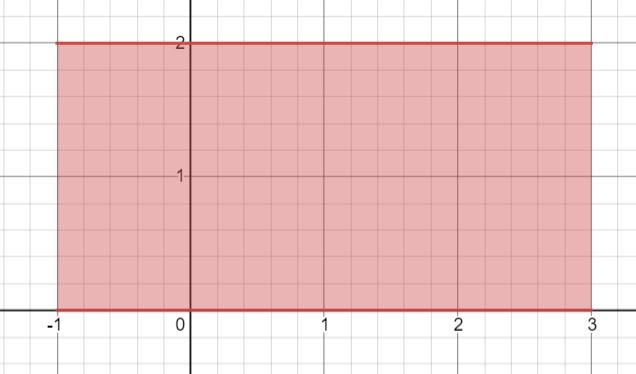
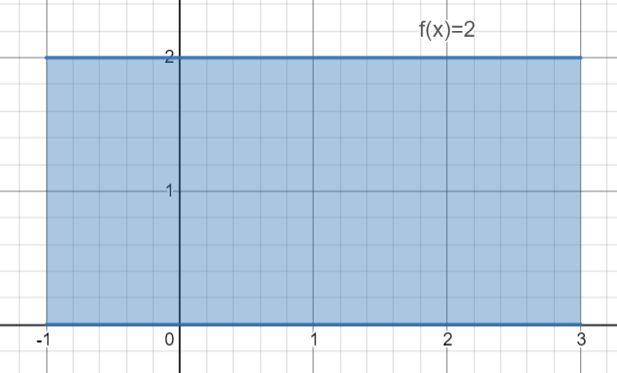
Add files via upload

diff --git a/Chapter 9/lesson.html b/Chapter 9/lesson.html
@@ -21,7 +21,7 @@ a {text-decoration:none;}
 span { font-family: Times New Roman; position:relative; }
 td	 { padding: 10px 10px 10px 10px; vertical-align:top; }
 p    { width:800px;}
-
+img  { padding: 0px 10px 10px 10px; }
 input 	{	font-family: Times New Roman; font-size:15px; }
 input.c1 { width:10px;}
 input.c2 { width:10px;}
@@ -174,14 +174,15 @@ errMsg  { display:block; color:red; padding-top:10px; }
 
 	<H2>Area between 2 Curves.</H2><BR>
 	<p>
-		<img class=floatLeft src="lesson.area.1.jpg" width=200>
+		<img class=floatLeft src="lesson.area.1.jpg" width=300>
 		<text>
 			From middle school math we can see that the area of this rectangle is 8 (b*h).&nbsp;&nbsp;From Calculus we know that we can find the area using the definite integral: <br><script>drawInt("-1","3","f(x)=2","dx")</script> = 8 as well.
 		</text>
 	</p>
-	<br>
+	<table style="width:100%"><tr><td></td></tr>
+	</table>
 	<p>
-		<img class=floatRight src="lesson.area.2.jpg" width=200>
+		<img class=floatRight src="lesson.area.2.jpg" width=300>
 		</text>
 		What may not be as obvious is what happens when we translate the rectangle:
 		Obviously the area is still 8, but  <script>drawInt("-1","3","f(x)=3","dx")</script> is 12.

diff --git a/math.js b/math.js
@@ -39,7 +39,7 @@ function drawInt(lb, ub, func, d)
 	var intSpan ="<span class=integral>&int;";
 	var lbSpan  ="<span class=lowbound>"+lb+"</span>";
 	var ubSpan  ="<span class=upbound>"+ub+"</span>";
-	var fncSpan ="<span class=function>"+"(&nbsp;<equ>" + func + "</equ>&nbsp;)<equ>" + d + "</equ></span></span>";
+	var fncSpan ="<span class=function>"+"(&nbsp;<equ>" + func + "</equ>&nbsp;)<equ> " + d + "</equ></span></span>";
 	var out = intSpan + lbSpan + ubSpan + fncSpan ;
 	console.log(out);
 	document.writeln(out);
@@ -49,7 +49,7 @@ function drawBigInt(lb, ub, func, d)
 	var intSpan ="<span class=bigintegral>&int;";
 	var lbSpan  ="<span class=lowbound>"+lb+"</span>";
 	var ubSpan  ="<span class=upbound>"+ub+"</span>";
-	var fncSpan ="<span class=function>"+"(&nbsp;<equ>" + func + "</equ>&nbsp;)<equ>" + d + "</equ></span></span>";
+	var fncSpan ="<span class=function>"+"(&nbsp;<equ>" + func + "</equ>&nbsp;)<equ> " + d + "</equ></span></span>";
 	var out = intSpan + lbSpan + ubSpan + fncSpan ;
 	console.log(out);
 	document.writeln(out);
